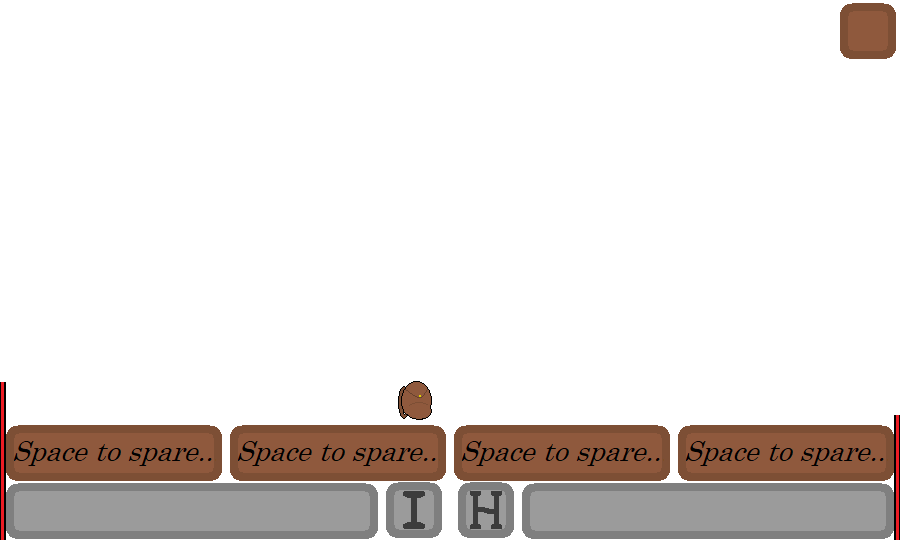
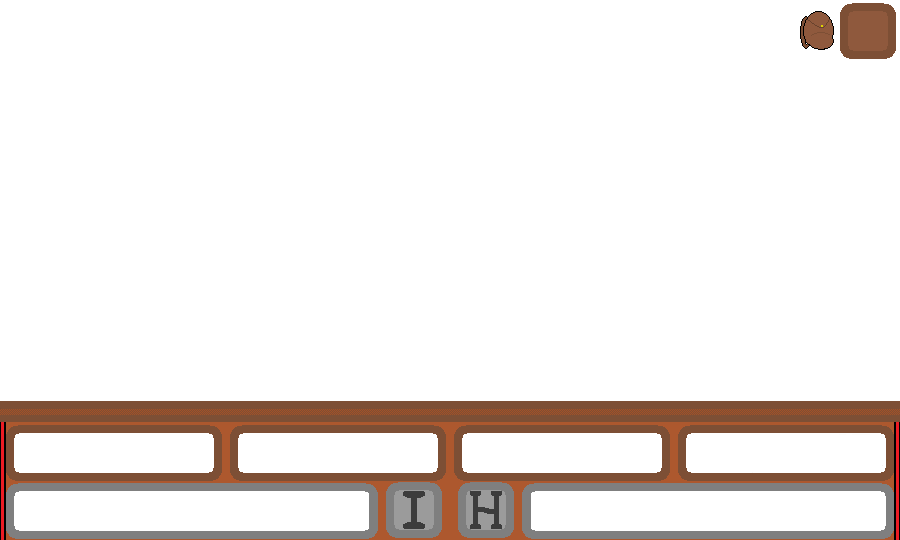
Add files via upload

Changed region(s): [[0.0, 0.7111, 1.0, 1.0], [0.8711, 0.0, 0.9333, 0.0889]]

diff --git a/Opening.py b/Opening.py
@@ -11,28 +11,275 @@ class BackgroundGame(object):
         self.EnemySide = pygame.sprite.Group()
          
         # Background image
-        self.background = pygame.image.load(DIR+"\\Images\\Serberux Background.png").convert_alpha()
-    def update(self,screen):
-        self.Bars.draw(screen)
-        screen.draw(self.background)
+        self.framework = pygame.image.load(DIR+"\\Serberux Background.png").convert_alpha()
+    def update(self,screen,texts = {'A':['Oppse',(0,0,0)]}):
+        #self.Bars.draw(screen)
+        #texts {'A':[words,color],}
+        pygame.font.init()
+        CHANGEABLE = -1
+        for a in ['A','B','C','D']:
+            try:
+                CHANGEABLE += 1
+                valuefont = pygame.font.SysFont('Century', 40-len(texts[a][0]))
+                textsurface = valuefont.render(texts[a][0], 0, texts[a][1])
+                self.framework.blit(textsurface,(20+(CHANGEABLE*225),430))
+            except:
+                CHANGEABLE += 1
+            
+        screen.blit(self.framework,(0,0))
+
+
+class Player(object):
+    def __init__(self):
+        #print(info)
+        super().__init__()
+        #               Cost, targetnum (0 player, 1 is bad), delay(ticks), tags, name
+        self.spells = {'A':[2,1,1,['dmg','dmg'],'Bang'],'B':[3,0,60,['heal','heal'],'Crackel'],'C':[0,0,120,['stam','stam','stam','stam'],'Pop'],'D':[8,0,30,['sheild'],'Wall']}
+        self.spellticks = {'A':0,'B':0,'C':0,'D':0}
+        self.info = {'Hp':10,'MaxHp':10,'Stamina':10,'MaxStamina':10,'StaminaPerSec':1, 'Sheild': 0}
+        self.tick = 0
         
+        self.Bars = pygame.sprite.Group()
+
+        self.Hpbar = Bar([self.info['MaxHp'],[255,0,0]],[14,491,'Left'])
+        self.Stambar = Bar([self.info['MaxStamina'],[10,210,10]],[531,491,'Right'])
+
+        
+        self.Abar = Bar([self.spells['A'][2],[143,89,61]],[14,393,'Down'],(200,40))
+        self.Bbar = Bar([self.spells['B'][2],[143,89,61]],[238,393,'Down'],(200,40))
+        self.Cbar = Bar([self.spells['C'][2],[143,89,61]],[462,393,'Down'],(200,40))
+        self.Dbar = Bar([self.spells['D'][2],[143,89,61]],[686,393,'Down'],(200,40))
+        
+        self.Bars.add(self.Hpbar)
+        self.Bars.add(self.Stambar)
+    
+        self.Bars.add(self.Abar)
+        self.Bars.add(self.Bbar)
+        self.Bars.add(self.Cbar)
+        self.Bars.add(self.Dbar)
+    def update(self):
+        #self.Bars.draw(screen)
+        self.tick += 1
+        for a in ['A','B','C','D']:
+            if self.spellticks[a] != 0:
+                self.spellticks[a] -= 1
+
+        if self.tick >= 60:
+            self.tick = 0
+            self.info['Stamina'] += self.info['StaminaPerSec']
+
+        if self.info['Hp'] > self.info['MaxHp']:
+            self.info['Hp'] = self.info['MaxHp']
+        elif self.info['Stamina'] > self.info['MaxStamina']:
+            self.info['Stamina'] = self.info['MaxStamina']
+            
+        self.Hpbar.num = self.info['Hp']
+        self.Stambar.num = self.info['Stamina']
+
+        self.Abar.num = self.spellticks['A']
+        self.Bbar.num = self.spellticks['B']
+        self.Cbar.num = self.spellticks['C']
+        self.Dbar.num = self.spellticks['D']
+        
+        self.Bars.update()
+
+        return({'A':[self.spells['A'][len(self.spells['A'])-1],(self.spellticks['A'],self.spellticks['A'],self.spellticks['A'])],'B':[self.spells['B'][len(self.spells['B'])-1],(self.spellticks['B'],self.spellticks['B'],self.spellticks['B'])],'C':[self.spells['C'][len(self.spells['C'])-1],(self.spellticks['C'],self.spellticks['C'],self.spellticks['C'])],'D':[self.spells['D'][len(self.spells['D'])-1],(self.spellticks['D'],self.spellticks['D'],self.spellticks['D'])]})
+
+
+    def DMGTHINGS(self,tag):
+        if tag == 0:
+            self.info['Sheild'] += 1
+        else:
+            if tag < 0:
+                if self.info['Sheild'] > 0:
+                    self.info['Sheild'] -= 1
+                else:
+                    self.info['Hp'] += tag
+            else:
+                self.info['Hp'] += tag
+
+    def cleanup(self,let):
+        returntags = [] 
+        if self.info['Stamina'] >= self.spells[let][0]:
+            self.info['Stamina'] -= self.spells[let][0]
+            self.spellticks[let] = self.spells[let][2]
+            for a in self.spells[let][3]:
+                #0 is sheild, -1 is dmg, 1 is heal
+                if a == 'dmg':
+                    returntags.append([self.spells[let][1],-1])
+                if a == 'heal':
+                    returntags.append([self.spells[let][1],1])
+                if a == 'sheild':
+                    returntags.append([self.spells[let][1],0])
+                if a == 'stam':
+                    self.info['Stamina'] += 1
+                    
+        return(returntags)
+            
+    def A(self):
+        
+        if self.spellticks['A'] == 0:
+            return(self.cleanup('A'))
+        #print(self.Abar.rect.x,self.Abar.rect.y)
+        return([])
+        print('a')
+    def B(self):
+        if self.spellticks['B'] == 0:
+            return(self.cleanup('B'))
+        return([])
+        print('b')
+    def C(self):
+        if self.spellticks['C'] == 0:
+            return(self.cleanup('C'))
+        return([])
+        print('c')
+    def D(self):
+        if self.spellticks['D'] == 0:
+           return(self.cleanup('D'))
+        return([])
+        print('d')
+        
+
+
+class Oponent(object):
+    def __init__(self):
+        #print(info)
+        super().__init__()
+        #               Cost, targetnum (0 player, 1 is bad), delay(ticks), tags, name
+        self.spells = {'A':[2,0,1,['dmg','dmg'],'Bang'],'B':[3,1,60,['heal','heal'],'Crackel'],'C':[0,1,120,['stam','stam','stam','stam'],'Pop'],'D':[8,1,30,['sheild'],'Wall']}
+        self.spellticks = {'A':0,'B':0,'C':0,'D':0}
+        self.info = {'Hp':10,'MaxHp':10,'Stamina':10,'MaxStamina':10,'StaminaPerSec':1, 'Sheild': 0}
+        self.tick = 0
+        self.AiUsetig = random.randrange(30,241)
+        self.AiUse = self.AiUsetig
+        
+        self.Bars = pygame.sprite.Group()
+
+        #self.Hpbar = Bar([self.info['MaxHp'],[255,0,0]],[14,491,'Left'])
+        #self.Stambar = Bar([self.info['MaxStamina'],[10,210,10]],[531,491,'Right'])
+        
+        #self.Bars.add(self.Hpbar)
+
+    def update(self):
+        q = []
+        self.tick += 1
+        for a in ['A','B','C','D']:
+            if self.spellticks[a] != 0:
+                self.spellticks[a] -= 1
+
+        self.AiUse -= 1
+        if self.AiUse <= 0:
+            self.AiUse = self.AiUsetig
+            c = [self.A,self.B,self.C,self.D]
+            q = c[random.randrange(0,4)]()
+            print(self.info['Hp'],q)
+            
+        
+        if self.tick >= 60:
+            self.tick = 0
+            self.info['Stamina'] += self.info['StaminaPerSec']
+
+        if self.info['Hp'] > self.info['MaxHp']:
+            self.info['Hp'] = self.info['MaxHp']
+        elif self.info['Stamina'] > self.info['MaxStamina']:
+            self.info['Stamina'] = self.info['MaxStamina']
+
+        
+        return(q)
+            
+        #self.Hpbar.num = self.info['Hp']
+        
+        #self.Bars.update()
+
+    def DMGTHINGS(self,tag):
+        if tag == 0:
+            self.info['Sheild'] += 1
+        else:
+            if tag < 0:
+                if self.info['Sheild'] > 0:
+                    self.info['Sheild'] -= 1
+                else:
+                    self.info['Hp'] += tag
+            else:
+                self.info['Hp'] += tag
+
+    def cleanup(self,let):
+        returntags = [] 
+        if self.info['Stamina'] >= self.spells[let][0]:
+            self.info['Stamina'] -= self.spells[let][0]
+            self.spellticks[let] = self.spells[let][2]
+            for a in self.spells[let][3]:
+                #0 is sheild, -1 is dmg, 1 is heal
+                if a == 'dmg':
+                    returntags.append([self.spells[let][1],-1])
+                if a == 'heal':
+                    returntags.append([self.spells[let][1],1])
+                if a == 'sheild':
+                    returntags.append([self.spells[let][1],0])
+                if a == 'stam':
+                    self.info['Stamina'] += 1
+                    
+        return(returntags)
+            
+    def A(self):
+        if self.spellticks['A'] == 0:
+            return(self.cleanup('A'))
+    def B(self):
+        if self.spellticks['B'] == 0:
+            return(self.cleanup('B'))
+
+    def C(self):
+        if self.spellticks['C'] == 0:
+            return(self.cleanup('C'))
+
+    def D(self):
+        if self.spellticks['D'] == 0:
+           return(self.cleanup('D'))
+
+
+
 class Bar(pygame.sprite.Sprite):
      
-    # -- Methods
-    def __init__(self,maxpoints):
+    #
+    def __init__(self,importantinfo,posinfo,size = (355, 40)):
         #print(info)
         super().__init__()
  
-        self.image = pygame.Surface((400, 40))
-        self.image.fill([255,0,0])
+        self.image = pygame.Surface(size)
+        self.image.fill(importantinfo[1])
         self.rect = self.image.get_rect()
-        self.Max = maxpoints
-        self.rect.x = 0
         
-    def update(self,num):
-        xm = (self.Max*num)*self.Max
-        self.rect.x = 0 - xm
-        pass
+        self.Max = importantinfo[0]
+        self.rect.x = posinfo[0]
+        self.rect.y = posinfo[1]
+        #           Max, Color
+        self.num = importantinfo[0]
+        #           x,y, direction
+        self.info = posinfo
+        self.SIZE = size
+        
+    def update(self):
+        if self.num > self.Max:
+            self.num = self.Max
+        elif self.num < 0:
+            self.num = 0
+        #print(self.num)
+
+        #changes which way the bar works
+        if self.info[2] == 'Left':
+            #distance from 'home'
+            xm = ((self.Max-self.num)/self.Max)*self.SIZE[0]
+            self.rect.x = self.info[0] - xm
+        elif self.info[2] == 'Right':
+            xm = ((self.Max-self.num)/self.Max)*self.SIZE[0]
+            self.rect.x = self.info[0] + xm
+
+        elif self.info[2] == 'Down':
+            xm = ((self.Max-self.num)/self.Max)*self.SIZE[1]
+            self.rect.y = self.info[1] + xm
+        elif self.info[2] == 'Up':
+            xm = ((self.Max-self.num)/self.Max)*self.SIZE[1]
+            self.rect.y = self.info[1] - xm
 ##        info = self.info
 ##        if self.info['clicked'] != clicked:
 ##            self.info['clicked'] = clicked
@@ -203,6 +450,7 @@ def main():
     # Set the height and width of the screen
     #size = [SCREEN_WIDTH, SCREEN_HEIGHT]
     screen = pygame.display.set_mode((900,540))
+    screen.fill((155,155,155))
  
     pygame.display.set_caption("Serberux")
 
@@ -212,9 +460,14 @@ def main():
     #card = {'Color':'Red',"Cost":2,'Name':'Punch','Text':'Deal 1 Damage.'}
     #for a in range(len(hand)):
     #    deck[hand[a]]['pos'] = [250*a,0]
-    player = Bar(20)
-    active_sprite_list.add(player)
+    #Hpbar = Bar([10,[255,0,0]],[14,491,'Left'])
+    #active_sprite_list.add(Hpbar)
+    #Stambar = Bar([10,[10,230,10]],[531,491,'Right'])
+    #active_sprite_list.add(Stambar)
+    P = Player()
+    B = Oponent()
     q = BackgroundGame()
+
         
  
     # Loop until the user clicks the close button.
@@ -224,30 +477,65 @@ def main():
     clock = pygame.time.Clock()
 
     while not done:
-
-        for a in active_sprite_list:
-            a.update(False)
+        screen.fill((155,155,155))
+        #for a in active_sprite_list:
+        #    a.update()
+        ANSER = []
         for event in pygame.event.get():
             if event.type == pygame.QUIT:
                 done = True
-        if pygame.mouse.get_pressed()[0] == True:
-            #if (event.type == pygame.MOUSEBUTTONDOWN) and (event.button == 1):
-            Mx,My = pygame.mouse.get_pos()
-            for a in active_sprite_list:
-                if a.rect.collidepoint(Mx,My):
-                    a.info['pos'] = [Mx-125,My-200]
-                    a.update(True)
-                    a.rect.x = Mx-125
-                    a.rect.y = My-200
-                    break
+            if (event.type == pygame.MOUSEBUTTONDOWN) and (event.button == 1):
+                Mx,My = pygame.mouse.get_pos()
+                print(Mx,My)
+                if (My > 425) and (My < 480):
+                    if (Mx >= 5) and (Mx < 220):
+                        ANSER = P.A()
+                    elif (Mx >= 230) and (Mx < 445):
+                        ANSER = P.B()
+                    elif (Mx >= 454) and (Mx < 670):
+                        ANSER = P.C()
+                    elif (Mx >= 680) and (Mx < 894):
+                        ANSER = P.D()
+                #Hpbar.num -= 1
+                #Stambar.num += 1
+            if (event.type == pygame.MOUSEBUTTONDOWN) and (event.button == 3):
+                pass
+        for a in B.update():
+            ANSER.append(a)
+        entitylist = [P,B]
+        for s in ANSER:
+            entitylist[s[0]].DMGTHINGS(s[1])
+                #Hpbar.num += 1
+                #Stambar.num -= 1
+        #if pygame.mouse.get_pressed()[0] == True:
+        #    Hpbar.num -= 1
+        #if pygame.mouse.get_pressed()[2] == True:
+        #    Hpbar.num += 1
+       
+            #Mx,My = pygame.mouse.get_pos()
+            #for a in active_sprite_list:
+            #    if a.rect.collidepoint(Mx,My):
+            #        a.info['pos'] = [Mx-125,My-200]
+            #        a.update(True)
+            #        a.rect.x = Mx-125
+            #        a.rect.y = My-200
+            #        break
                 
-            
-
+        ppp = P.update()
+    
         #screen.fill(BLUE)
+        P.Bars.draw(screen)
+        active_sprite_list.update()
         active_sprite_list.draw(screen)
-        q.update(screen)
+        
+        
+        q.update(screen,ppp)
         clock.tick(60)
         pygame.display.flip()
+
+        if B.info['Hp'] <= 0:
+            done = True
+            print('Winner!')
         
     # Be IDLE friendly. If you forget this line, the program will 'hang'
     # on exit.
